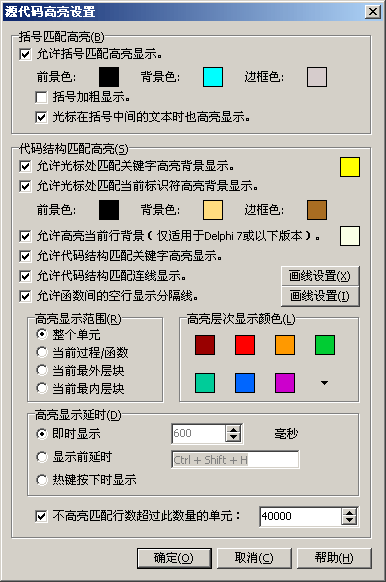
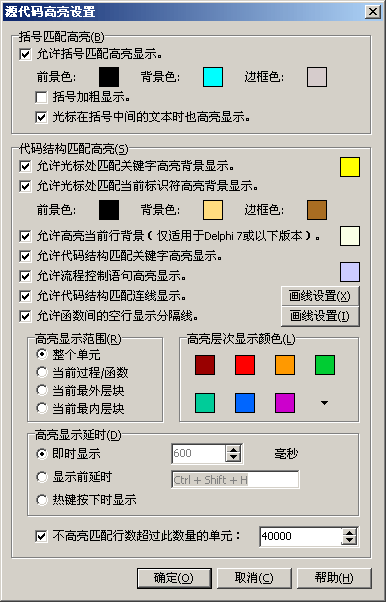
* [Source Highlight] Update Help for "Flow Control" Highlight background function.

diff --git a/trunk/cnwizards/Help/CnWizards_ENU/ideenhance/srchighlight.htm b/trunk/cnwizards/Help/CnWizards_ENU/ideenhance/srchighlight.htm
@@ -70,6 +70,9 @@ Brackets ( ), [ ], { } are supported. But { } only valid in C/C++. Code Structur
 <p class="text"><b>Enable Highlight Keyword Structure</b>: Whether Enable Keyword Structure Highlight in IDE Editor.</p>
   </li>
   <li>
+<p class="text"><b>Enable Highlight Flow Control Statement</b>: Whether Enable Highlight Background for Flow Control Statement in Pascal and C/C++, including Exit/Abort/Break/Continue/raise/goto in Pascal and return/goto/break/continue/exit/abort in C/C++.</p>
+  </li>
+  <li>
 <p class="text"><b>Enable Structure Lines</b>: Whether Enable Lines Structure Highlight in IDE Editor.</p>
   </li>
   <li>
